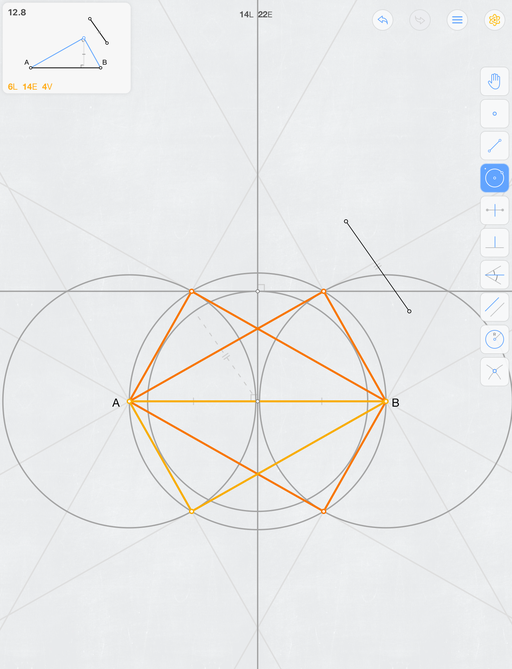
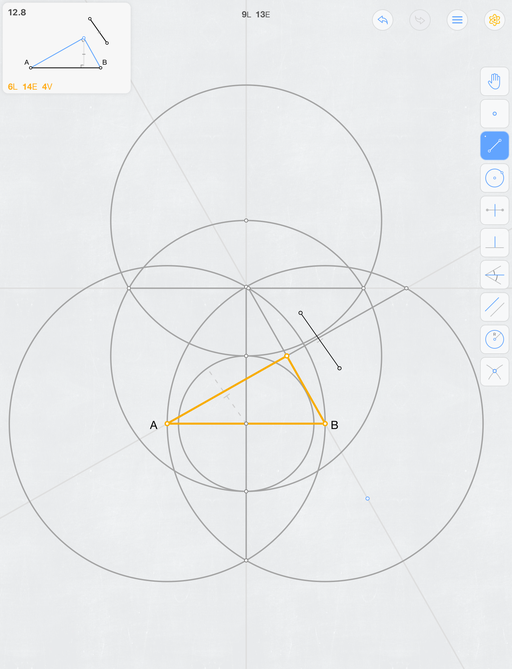
Add 12.8 13E solution.

diff --git a/README.md b/README.md
@@ -14,6 +14,7 @@
 - [v1版本链接(全最优解更新完成)](https://mathsfans.github.io/Euclidea/v1/)  
 
 重要解法更新(v1版本)：
+- (2018-12-15) 12.8 13E新纪录解法。
 - (2018-12-08) 根据iOS 4.12版增加8个新问题并重排题目顺序，更新最优解法(包含所有新题目，和6.11 10E解法)。 
 - (2018-04-18) 3.10 7E新纪录解法。 
 - (2018-04-11) 根据iOS 4.07版增加8个新问题并重排题目顺序，更新最优解法(包含6.10 4E和8.6 4L、5E解法)。 
@@ -45,6 +46,7 @@ The solution pages:
 - [v1 (all optimal solutions, descriptions in Chinese)](https://mathsfans.github.io/Euclidea/v1/)  
 
 Version history (v1 version)：
+- (2018-12-15) New record update: 12.8 13E. 
 - (2018-12-08) Add 8 new problems and re-order all problems according to iOS v4.12, with updated optimal solutions (including all new problems and 6.11 10E). 
 - (2018-04-18) New record update: 3.10 7E. 
 - (2018-04-11) Add 8 new problems and re-order all problems according to iOS v4.07, with updated optimal solutions (including 6.10 4E, 8.6 4L and 5E). 

diff --git a/v1/Euclidea3.md b/v1/Euclidea3.md
@@ -531,9 +531,10 @@
 解：[6L8E，利用半圆构造直角。](solving/d12.7.1.png)  
 注：[2V，如图，作出全部两个解得到隐藏星星。](solving/d12.7.2.png)  
 
-- 12.8 斜边和高 *6L 14E 4V* ⭐  
-解：[6L14E，平移高到相应的位置。](solving/d12.8.1.png)  
-注：[4V，如图做4个三角形得到隐藏星星。](solving/d12.8.2.png)  
+- 12.8 斜边和高 *6L 13E 4V* ⭐  
+解：[6L，平移高到相应的位置。](solving/d12.8.1.png)  
+解：[13E，思路未知。](solving/d12.8.2.png)  
+注：[4V，如图做4个三角形得到隐藏星星。](solving/d12.8.3.png)  
 
 - 12.9 斜边和直角边 *5L 9E 4V* ⭐  
 解：[5L，半圆对的圆周角为直角。](solving/d12.9.1.png)  
